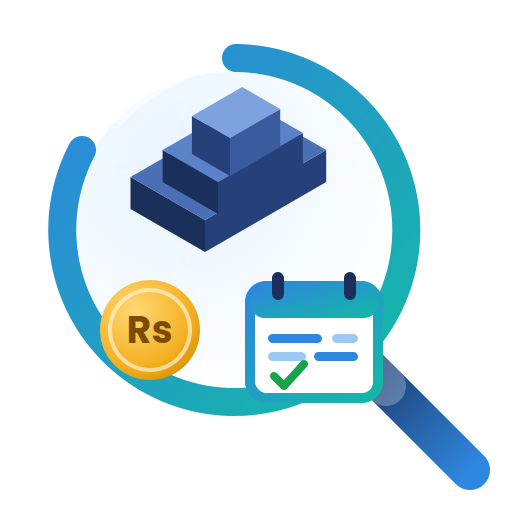
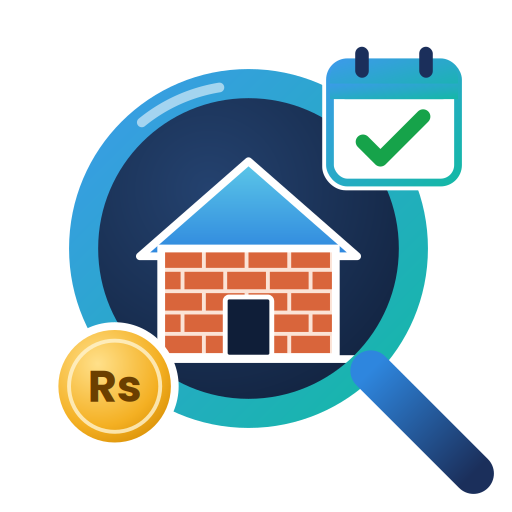
Add files via upload

diff --git a/assets/source/make_logo.py b/assets/source/make_logo.py
@@ -1,69 +1,70 @@
 import cairosvg
-
-def cuboid(x, y, w, d, h, top, left, right):
-    """Isometric block: (x,y) = front-bottom corner on screen; w along +x/-y, d along -x/-y, h up."""
-    import math
-    c, s = math.cos(math.radians(30)), math.sin(math.radians(30))
-    def P(a, b, z):  # a along width axis, b along depth axis, z up
-        return (x + a * c - b * c, y - a * s - b * s - z)
-    A0, B0, C0, D0 = P(0, 0, 0), P(w, 0, 0), P(w, d, 0), P(0, d, 0)
-    A1, B1, C1, D1 = P(0, 0, h), P(w, 0, h), P(w, d, h), P(0, d, h)
-    pts = lambda *ps: " ".join(f"{px:.1f},{py:.1f}" for px, py in ps)
-    return (f'<polygon points="{pts(A0, A1, D1, D0)}" fill="{left}"/>'
-            f'<polygon points="{pts(A0, B0, B1, A1)}" fill="{right}"/>'
-            f'<polygon points="{pts(A1, B1, C1, D1)}" fill="{top}"/>')
-
-NAVY, NAVY2, NAVY3 = "#1B2F5B", "#26417A", "#3A5C9E"
-
-def mark(dark=False):
-    blocks = (cuboid(205, 252, 140, 86, 32, "#4A6FB5", NAVY, NAVY2) +
-              cuboid(218, 214, 98, 64, 32, "#5B82C8", NAVY, NAVY2) +
-              cuboid(230, 176, 58, 44, 38, "#7DA2DE", NAVY2, NAVY3))
-    coin = ('<g transform="translate(150,330)">'
-            '<circle r="50" fill="url(#gold)"/><circle r="40" fill="none" stroke="#FFF3CF" stroke-opacity=".7" stroke-width="4"/>'
-            '<text x="0" y="13" text-anchor="middle" font-family="Poppins" font-weight="700" font-size="38" fill="#7A4B00">Rs</text></g>')
-    cal = ('<g transform="translate(250,286)">'
-           '<rect x="0" y="0" width="128" height="112" rx="16" fill="#FFFFFF" stroke="url(#lens)" stroke-width="10"/>'
-           '<rect x="0" y="0" width="128" height="32" rx="14" fill="url(#lens)"/>'
-           '<rect x="22" y="-14" width="12" height="28" rx="6" fill="' + NAVY + '"/><rect x="94" y="-14" width="12" height="28" rx="6" fill="' + NAVY + '"/>'
-           '<rect x="18" y="48" width="54" height="9" rx="4.5" fill="#2E86DE"/><rect x="82" y="48" width="26" height="9" rx="4.5" fill="#9CC9F2"/>'
-           '<rect x="18" y="66" width="38" height="9" rx="4.5" fill="#9CC9F2"/><rect x="64" y="66" width="44" height="9" rx="4.5" fill="#2E86DE"/>'
-           '<path d="M24 90 l10 10 l20 -22" fill="none" stroke="#16A34A" stroke-width="8" stroke-linecap="round" stroke-linejoin="round"/></g>')
-    ring = ('<path d="M 236 58 A 172 172 0 1 1 82 150" fill="none" stroke="url(#lens)" stroke-width="28" stroke-linecap="round"/>'
-            '<path d="M 120 120 A 150 150 0 0 1 180 78" fill="none" stroke="#FFFFFF" stroke-opacity=".55" stroke-width="10" stroke-linecap="round"/>'
-            '<line x1="352" y1="352" x2="470" y2="470" stroke="url(#handle)" stroke-width="40" stroke-linecap="round"/>'
-            '<line x1="352" y1="352" x2="386" y2="386" stroke="#FFFFFF" stroke-opacity=".25" stroke-width="40" stroke-linecap="round"/>')
-    glass = '<circle cx="230" cy="230" r="158" fill="url(#glass)"/>'
-    return glass + ring + blocks + coin + cal
+from PIL import Image
 
 DEFS = '''<defs>
-<linearGradient id="lens" x1="0" y1="0" x2="1" y2="1"><stop offset="0" stop-color="#2E86DE"/><stop offset="1" stop-color="#14B8A6"/></linearGradient>
-<linearGradient id="handle" x1="0" y1="0" x2="1" y2="1"><stop offset="0" stop-color="#1B2F5B"/><stop offset="1" stop-color="#2E86DE"/></linearGradient>
-<radialGradient id="glass" cx=".35" cy=".3" r=".8"><stop offset="0" stop-color="#E8F4FF"/><stop offset="1" stop-color="#E8F4FF" stop-opacity="0"/></radialGradient>
-<radialGradient id="gold" cx=".35" cy=".3" r=".8"><stop offset="0" stop-color="#FFD873"/><stop offset=".7" stop-color="#F4B023"/><stop offset="1" stop-color="#D98E04"/></radialGradient>
-<linearGradient id="word" x1="0" y1="0" x2="1" y2="0"><stop offset="0" stop-color="#2E86DE"/><stop offset="1" stop-color="#14B8A6"/></linearGradient>
+<linearGradient id="lens" x1="0" y1="0" x2="1" y2="1"><stop offset="0" stop-color="#3B9BE8"/><stop offset="1" stop-color="#14B8A6"/></linearGradient>
+<linearGradient id="handle" x1="0" y1="0" x2="1" y2="1"><stop offset="0" stop-color="#2E86DE"/><stop offset="1" stop-color="#1B2F5B"/></linearGradient>
+<radialGradient id="glass" cx=".38" cy=".32" r=".85"><stop offset="0" stop-color="#24426F"/><stop offset="1" stop-color="#0F1E38"/></radialGradient>
+<radialGradient id="gold" cx=".35" cy=".3" r=".85"><stop offset="0" stop-color="#FFE08A"/><stop offset=".65" stop-color="#F4B023"/><stop offset="1" stop-color="#D48A00"/></radialGradient>
+<linearGradient id="roof" x1="0" y1="0" x2="0" y2="1"><stop offset="0" stop-color="#5CC8E8"/><stop offset="1" stop-color="#2E86DE"/></linearGradient>
+<linearGradient id="word" x1="0" y1="0" x2="1" y2="0"><stop offset="0" stop-color="#3B9BE8"/><stop offset="1" stop-color="#14B8A6"/></linearGradient>
+<clipPath id="wall"><rect x="160" y="250" width="180" height="112"/></clipPath>
 </defs>'''
 
+def bricks():
+    out = ['<rect x="160" y="250" width="180" height="112" fill="#D9653B"/>', '<g clip-path="url(#wall)" stroke="#FBE3D6" stroke-width="4">']
+    for i, y in enumerate(range(250, 370, 22)):
+        out.append(f'<line x1="160" y1="{y}" x2="340" y2="{y}"/>')
+        off = 0 if i % 2 == 0 else 22
+        for x in range(160 + off, 345, 44):
+            out.append(f'<line x1="{x}" y1="{y}" x2="{x}" y2="{y + 22}"/>')
+    out.append('</g>')
+    return "".join(out)
+
+def mark():
+    return (
+        '<circle cx="250" cy="250" r="170" fill="url(#glass)"/>'
+        # house = materials take-off
+        '<polygon points="138,258 250,160 362,258" fill="url(#roof)" stroke="#FFFFFF" stroke-width="8" stroke-linejoin="round"/>'
+        + bricks() +
+        '<rect x="160" y="250" width="180" height="112" fill="none" stroke="#FFFFFF" stroke-width="8"/>'
+        '<rect x="226" y="300" width="48" height="62" rx="4" fill="#0F1E38" stroke="#FFFFFF" stroke-width="5"/>'
+        '<line x1="120" y1="364" x2="380" y2="364" stroke="#FFFFFF" stroke-width="8" stroke-linecap="round"/>'
+        # lens ring + handle
+        '<circle cx="250" cy="250" r="170" fill="none" stroke="url(#lens)" stroke-width="30"/>'
+        '<path d="M 140 120 A 170 170 0 0 1 220 84" fill="none" stroke="#FFFFFF" stroke-opacity=".55" stroke-width="10" stroke-linecap="round"/>'
+        '<line x1="376" y1="376" x2="482" y2="482" stroke="url(#handle)" stroke-width="42" stroke-linecap="round"/>'
+        # Rs coin = cost (bottom-left, on the ring)
+        '<g transform="translate(112,392)"><circle r="66" fill="#FFFFFF"/><circle r="58" fill="url(#gold)"/>'
+        '<circle r="47" fill="none" stroke="#FFF3CF" stroke-opacity=".8" stroke-width="4"/>'
+        '<text x="0" y="16" text-anchor="middle" font-family="Poppins" font-weight="800" font-size="46" fill="#6B3F00">Rs</text></g>'
+        # calendar = schedule (top-right, on the ring)
+        '<g transform="translate(334,58)">'
+        '<rect x="-8" y="-8" width="148" height="140" rx="24" fill="#FFFFFF"/>'
+        '<rect x="0" y="0" width="132" height="124" rx="18" fill="#FFFFFF" stroke="url(#lens)" stroke-width="8"/>'
+        '<rect x="0" y="0" width="132" height="38" rx="16" fill="url(#lens)"/><rect x="0" y="22" width="132" height="16" fill="url(#lens)"/>'
+        '<rect x="26" y="-16" width="14" height="32" rx="7" fill="#1B2F5B"/><rect x="92" y="-16" width="14" height="32" rx="7" fill="#1B2F5B"/>'
+        '<path d="M34 82 l18 18 l44 -44" fill="none" stroke="#16A34A" stroke-width="15" stroke-linecap="round" stroke-linejoin="round"/></g>'
+    )
+
 def icon_svg():
-    return f'<svg xmlns="http://www.w3.org/2000/svg" viewBox="0 0 512 512" width="512" height="512">{DEFS}{mark()}</svg>'
+    return f'<svg xmlns="http://www.w3.org/2000/svg" viewBox="0 0 512 512" width="512" height="512">{DEFS}<g transform="translate(6,6) scale(.97)">{mark()}</g></svg>'
 
 def full_svg(dark=False):
     cost = "#FFFFFF" if dark else "#1B2F5B"
     tag = "#C7D7EE" if dark else "#5B6B85"
     return (f'<svg xmlns="http://www.w3.org/2000/svg" viewBox="0 0 1500 512" width="1500" height="512">{DEFS}'
-            f'<g transform="translate(10,0)">{mark(dark)}</g>'
-            f'<text x="540" y="300" font-family="Poppins" font-weight="700" font-size="190" letter-spacing="-4">'
+            f'<g transform="translate(10,6) scale(.97)">{mark()}</g>'
+            f'<text x="545" y="298" font-family="Poppins" font-weight="700" font-size="190" letter-spacing="-4">'
             f'<tspan fill="{cost}">Cost</tspan><tspan fill="url(#word)">Lens</tspan></text>'
-            f'<text x="548" y="382" font-family="Poppins" font-weight="500" font-size="44" letter-spacing="9" fill="{tag}">'
+            f'<text x="553" y="380" font-family="Poppins" font-weight="600" font-size="44" letter-spacing="9" fill="{tag}">'
             f'MATERIALS <tspan fill="#F4B023">\u2022</tspan> COST <tspan fill="#F4B023">\u2022</tspan> SCHEDULE</text></svg>')
 
-open("costlens_icon.svg", "w").write(icon_svg())
-open("costlens_logo.svg", "w").write(full_svg())
-open("costlens_logo_on_dark.svg", "w").write(full_svg(True))
-cairosvg.svg2png(bytestring=icon_svg().encode(), write_to="costlens_icon.png", output_width=512, output_height=512)
-cairosvg.svg2png(bytestring=full_svg().encode(), write_to="costlens_logo.png", output_width=1500, output_height=512)
-cairosvg.svg2png(bytestring=full_svg(True).encode(), write_to="costlens_logo_on_dark.png", output_width=1500, output_height=512)
-# previews
-from PIL import Image
-bg = Image.new("RGBA", (1500, 512), "#FFFFFF"); im = Image.open("costlens_logo.png"); bg.alpha_composite(im); bg.convert("RGB").save("preview_light.png")
-bg = Image.new("RGBA", (1500, 512), "#13294B"); im = Image.open("costlens_logo_on_dark.png"); bg.alpha_composite(im); bg.convert("RGB").save("preview_dark.png")
+for name, svg, w, h in (("costlens_icon", icon_svg(), 512, 512), ("costlens_logo", full_svg(), 1500, 512),
+                        ("costlens_logo_on_dark", full_svg(True), 1500, 512)):
+    open(name + ".svg", "w").write(svg)
+    cairosvg.svg2png(bytestring=svg.encode(), write_to=name + ".png", output_width=w, output_height=h)
+for name, bg in (("costlens_logo", "#FFFFFF"), ("costlens_logo_on_dark", "#0E1A2F")):
+    base = Image.new("RGBA", (1500, 512), bg); base.alpha_composite(Image.open(name + ".png")); base.convert("RGB").save(f"prev2_{name}.png")
+base = Image.new("RGBA", (512, 512), "#FFFFFF"); base.alpha_composite(Image.open("costlens_icon.png"))
+small = base.resize((64, 64), Image.LANCZOS); small.save("prev2_icon64.png")

diff --git a/detailed_mto/scope.py b/detailed_mto/scope.py
@@ -139,6 +139,21 @@ class Question:
     found: Optional[Callable[[DetailedProject], Optional[object]]] = None  # value read from the drawings
     help: str = ""
     required: bool = True
+    default_index: int = 0  # the most common answer - pre-selected, the owner can change it
+    custom: Optional["Custom"] = None  # lets the owner type a number instead of picking an option
+
+
+@dataclass
+class Custom:
+    """'Type my own number' for a question: prompt, unit, limits, and conversion to/from the stored value."""
+    prompt: str
+    unit: str
+    min: float
+    max: float
+    step: float
+    default: float
+    to_value: Callable[[float], object]
+    from_value: Callable[[object], float]
 
 
 def _c(p: DetailedProject) -> dict:
@@ -356,6 +371,43 @@ QUESTIONS: List[Question] = [
     Question("paving_area", "paving", "\U0001f697", "Paving", "Which outside areas get tiles or pavers?", _paving_opts, _param_effect("PAVING_AREA")),
 ]
 QUESTIONS_BY_ID = {q.id: q for q in QUESTIONS}
+
+# ---- the most common answer for each question (pre-selected; index into its options)
+DEFAULTS = {"structure": 0, "floor_h": 0, "walls": 0, "roof": 0, "sewer": 0, "neighbours": 0, "floor_type": 0, "bath_tiles": 0,
+            "kit_tiles": 0, "door_type": 0, "door_count": 0, "win_type": 0, "win_size": 1, "wc_type": 0, "geysers": 0,
+            "counter": 1, "countertop": 0, "wardrobes": 0, "lights": 1, "sockets": 1, "fans": 0, "acs": 0, "ac_units": 0,
+            "lowvolt_n": 0, "ug_tank": 1, "oh_tank": 0, "gas_src": 0, "boundary_len": 0, "cladding_area": 0, "paving_area": 0}
+_GAL_PER_CFT = 6.229  # imperial gallons per cubic foot (Pakistani tanks are sold in gallons)
+CUSTOM = {
+    "floor_h": Custom("Room height (floor to ceiling)", "ft", 8.0, 16.0, 0.5, 10.5, lambda v: round(v + 1.0, 2),
+                      lambda v: round(float(v) - 1.0, 2)),  # + slab & floor finish = floor-to-floor
+    "geysers": Custom("Number of geysers", "Nos", 0, 10, 1, 2, float, float),
+    "counter": Custom("Total counter length", "ft", 4, 60, 1, 14, float, float),
+    "wardrobes": Custom("Number of wardrobes (about 8 ft x 6 ft each)", "Nos", 0, 12, 1, 3, lambda v: 48.0 * v,
+                        lambda v: round(float(v) / 48.0)),
+    "lights": Custom("Number of light points", "Nos", 4, 300, 1, 50, float, float),
+    "sockets": Custom("Number of plug sockets", "Nos", 4, 200, 1, 40, float, float),
+    "fans": Custom("Number of ceiling fans", "Nos", 0, 30, 1, 8, float, float),
+    "acs": Custom("Number of split ACs", "Nos", 0, 20, 1, 5, float, float),
+    "lowvolt_n": Custom("Number of TV / internet points", "Nos", 0, 40, 1, 8, float, float),
+    "ug_tank": Custom("Underground tank size", "gallons", 200, 5000, 50, 1000,
+                      lambda g: round((g / _GAL_PER_CFT / 5.0) ** 0.5, 2),  # square tank, 5 ft deep
+                      lambda side: round(float(side) ** 2 * 5.0 * _GAL_PER_CFT / 50) * 50),
+    "boundary_len": Custom("Boundary wall length", "ft", 0, 600, 1, 30, float, float),
+    "paving_area": Custom("Paved area", "sq ft", 0, 5000, 10, 200, float, float),
+    "cladding_area": Custom("Cladding area", "sq ft", 0, 3000, 10, 150, float, float),
+}
+for _q in QUESTIONS:
+    _q.default_index = DEFAULTS.get(_q.id, 0)
+    _q.custom = CUSTOM.get(_q.id)
+
+
+def default_answer(q: "Question", p: DetailedProject):
+    """The pre-selected (most common) value for a question in this house."""
+    opts = q.options(p)
+    if not opts:
+        return None
+    return opts[min(q.default_index, len(opts) - 1)][1]
 
 
 # ---------------------------------------------------------------------------

diff --git a/persistence/project_file.py b/persistence/project_file.py
@@ -194,6 +194,8 @@ def project_to_dict(ss: Dict[str, Any], include_drawings: bool = False) -> dict:
         "spec_answers": {k: (list(v) if isinstance(v, tuple) else v) for k, v in (ss.get("spec_answers") or {}).items()},
         "assumptions_ack": ss.get("assumptions_ack") or "",
         "plot_dims_user": list(ss.get("plot_dims_user")) if ss.get("plot_dims_user") else None,
+        "spec_custom": dict(ss.get("spec_custom") or {}), "spec_suggested": sorted(ss.get("spec_suggested") or []),
+        "scope_not_needed": sorted(ss.get("scope_not_needed") or []),
         # schedule: calendar/crew/rate/lag/progress settings, target months, saved baseline
         "sched_settings": _dc(ss.get("sched_settings")) if ss.get("sched_settings") is not None else None,
         "sched_target": ss.get("sched_target"),
@@ -250,6 +252,8 @@ def project_from_json(raw: bytes) -> Dict[str, Any]:
         "spec_answers": {k: (tuple(v) if isinstance(v, list) else v) for k, v in (d.get("spec_answers") or {}).items()},
         "assumptions_ack": d.get("assumptions_ack") or "",
         "plot_dims_user": tuple(d["plot_dims_user"]) if d.get("plot_dims_user") else None,
+        "spec_custom": dict(d.get("spec_custom") or {}), "spec_suggested": list(d.get("spec_suggested") or []),
+        "scope_not_needed": list(d.get("scope_not_needed") or []),
         "sched_settings": _sched_in(d.get("sched_settings")),
         "sched_target": d.get("sched_target"),
         "sched_baseline": _baseline_in(d.get("sched_baseline")),

diff --git a/detailed_mto/readiness.py b/detailed_mto/readiness.py
@@ -57,7 +57,7 @@ def _is_known(prm) -> bool:
 
 
 def evaluate(p: DetailedProject, selected: set, answers: Dict[str, object], scope_confirmed: bool,
-             settings_window: Optional[tuple] = None) -> Readiness:
+             settings_window: Optional[tuple] = None, suggested: Optional[set] = None) -> Readiness:
     r = Readiness()
 
     # ---- plot
@@ -97,6 +97,13 @@ def evaluate(p: DetailedProject, selected: set, answers: Dict[str, object], scop
         if q.id not in answers or answers[q.id] is None:
             if q.required:
                 r.missing.append(Check(q.id, q.title, q.question, "details"))
+
+    # ---- pre-selected (most common) answers the owner kept - listed so nothing is assumed silently
+    kept = [q.title for q in active_questions(selected) if suggested and q.id in suggested and q.id in answers]
+    if kept:
+        r.assumptions.append(Check("suggested", "Suggested answers you kept",
+                                   f"{len(kept)} question(s) still have the most common answer we pre-selected: "
+                                   + ", ".join(kept[:12]) + ("..." if len(kept) > 12 else "") + ". Change them in part 2 if different."))
 
     # ---- doors & windows present when in scope
     if "doors" in selected and not p.doors():
